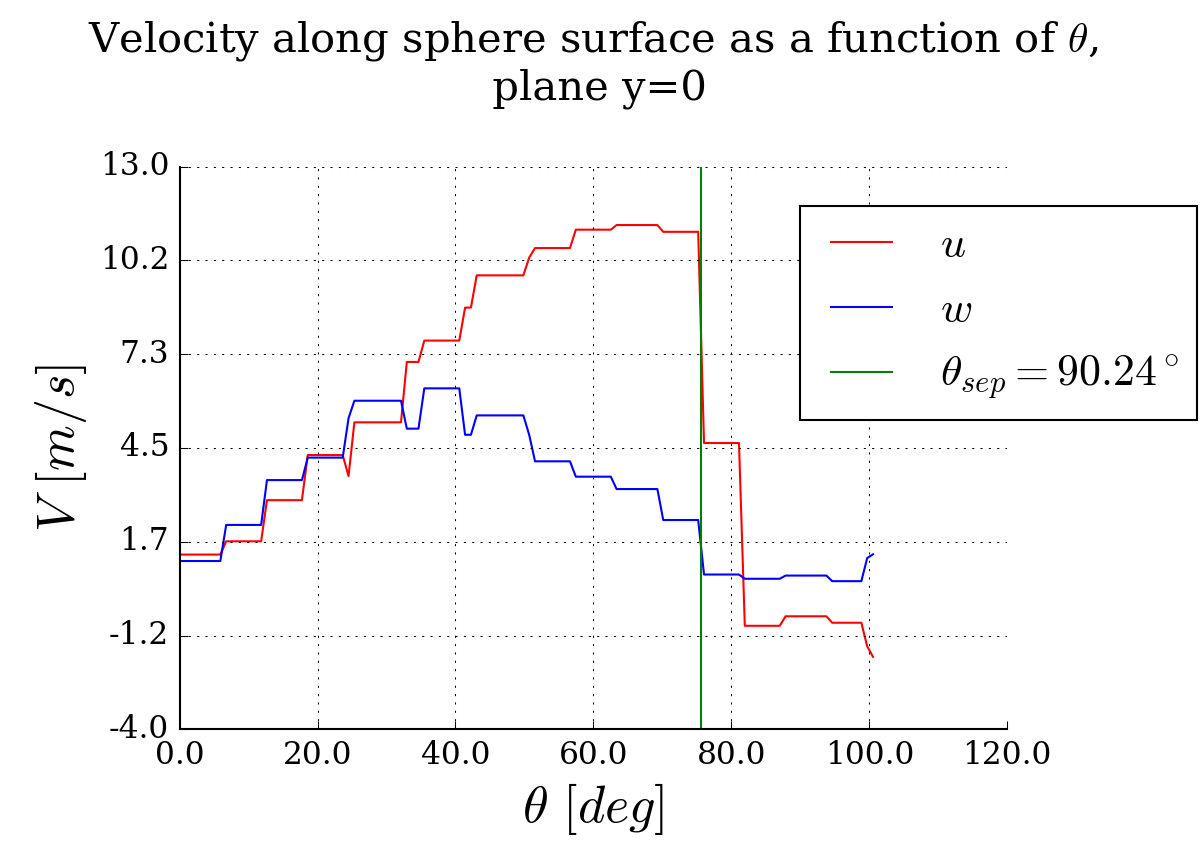
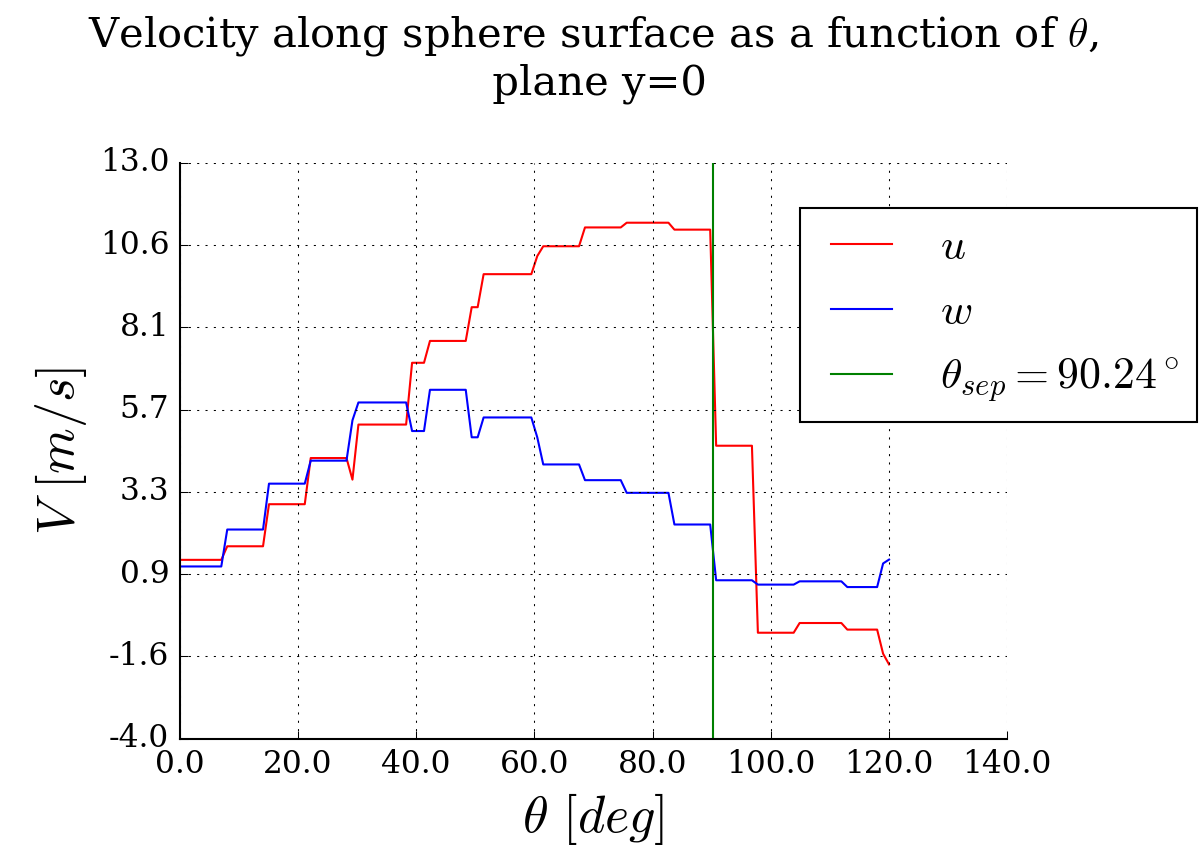
Separation point plot - definitive

diff --git a/4. ensemble_separation_point.py b/4. ensemble_separation_point.py
@@ -295,7 +295,7 @@ def separation_point(method, field_u, field_w):
     titlesize = 20
     axis_lbsize = 25
     tick_lbsize = 15
-    tickn = 7
+    tickn = 8
 
     fig = mplPlotter(light=True).setup2d(figsize=(8, 8))
 
@@ -314,9 +314,9 @@ def separation_point(method, field_u, field_w):
                                                                                          resize_axes=True,
                                                                                          grid=True,
                                                                                          gridlines='dotted',
-                                                                                         x_bounds=[0, 2.5],
+                                                                                         x_bounds=[0, 140/180*np.pi],
                                                                                          y_bounds=[-4, 13],
-                                                                                         custom_x_ticklabels=[0, 120],
+                                                                                         custom_x_ticklabels=[0, 140],
                                                                                          y_tick_number=tickn,
                                                                                          x_tick_number=tickn,
                                                                                          x_ticklabel_size=tick_lbsize,
